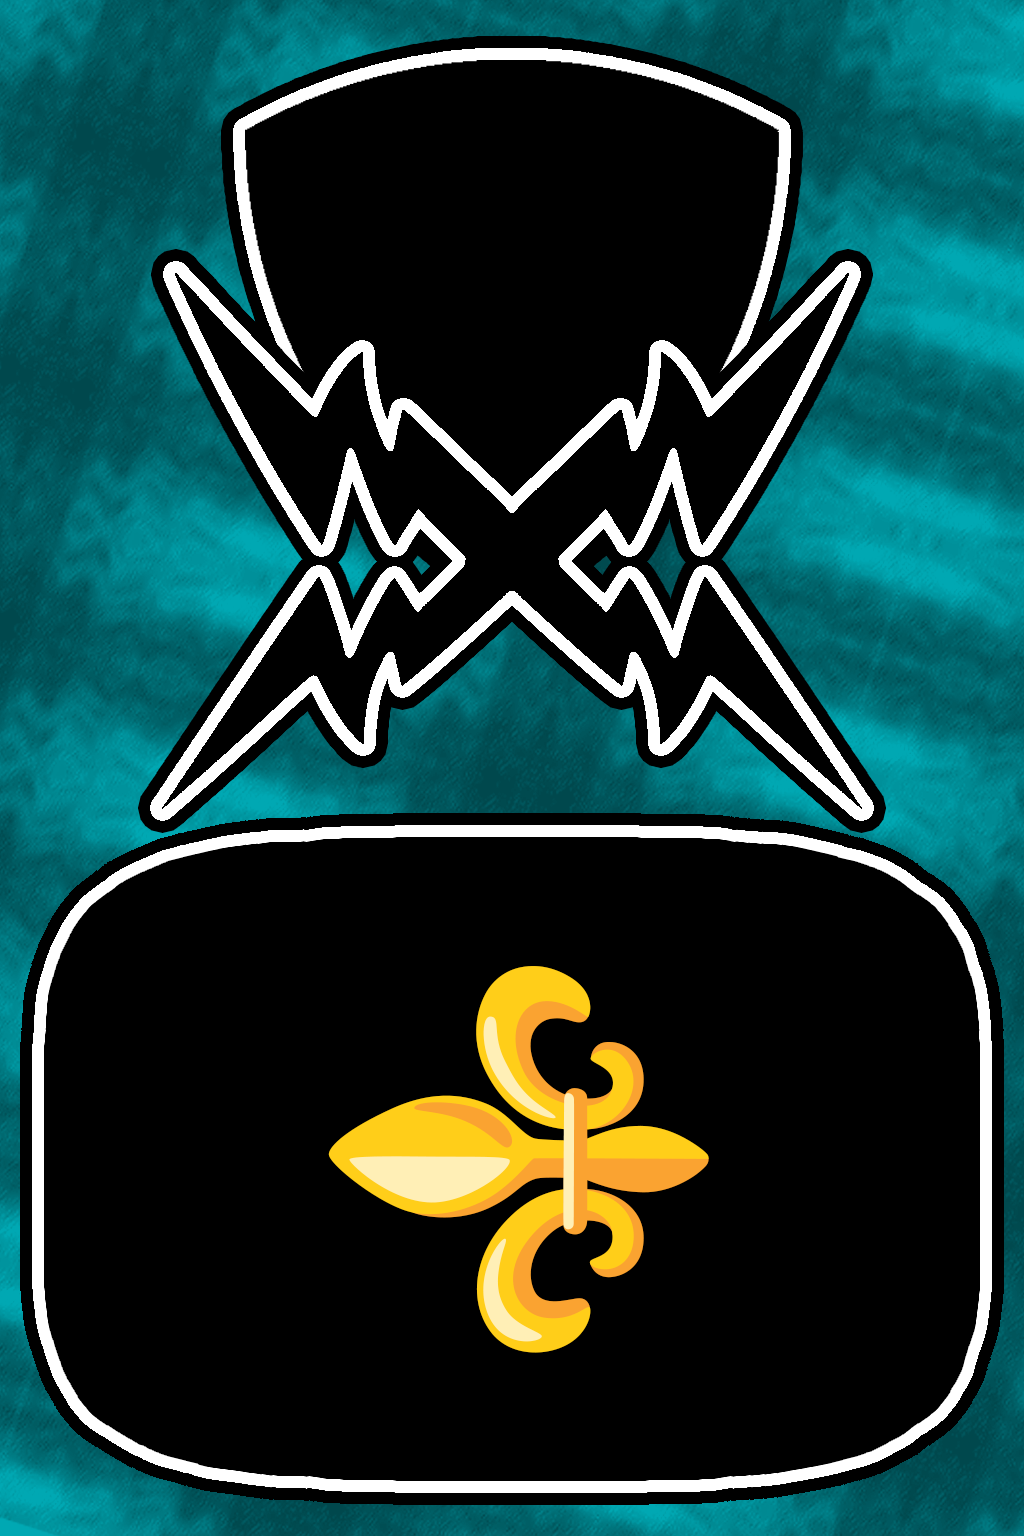
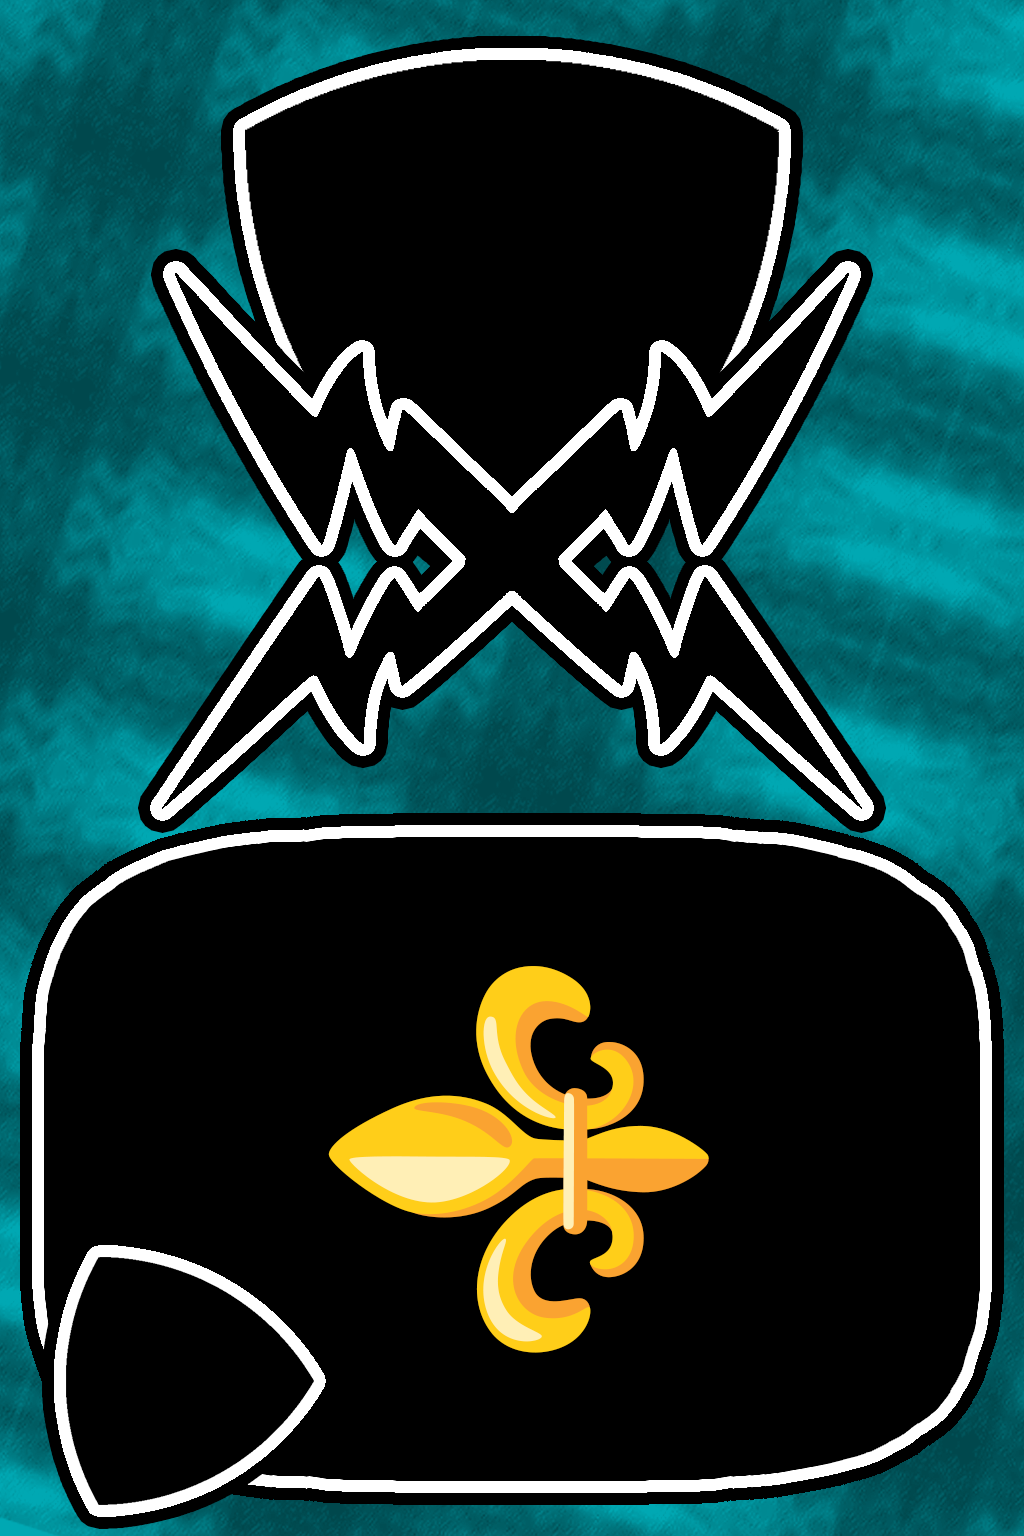
noai fix

Changed region(s): [[0.0312, 0.8125, 0.3125, 1.0]]

diff --git a/docs/noai/index.html b/docs/noai/index.html
@@ -1,4 +1,4 @@
-<!DOCTYPE html><html lang=en><script type=importmap>{"imports":{"1Dqf7":"./shield-strong.493974f6.png","1GwB3":"./guard.fe10b17f.png","2MKe8":"./fate-back.324779ef.png","3UtAa":"./weapon-weak-template.3f5c5fab.png","3gAId":"./axe-medium.5e94a0e5.png","4BsHQ":"./luxurium-medium.28a3bc13.png","4GO7z":"./luxurium-small.28a3bc13.png","4RLGu":"./luxurium-big.28a3bc13.png","5DXUz":"./stamina-back.b204e33a.png","5mDOk":"./CanvasRenderer.12a40a97.js","5vMCO":"./browserAll.f26b8cb1.js","8F9Mt":"./luxurium-fate-big.9a2c6997.png","8T80n":"./health-medium.917a32ed.png","8YUpZ":"./game-end-exhausted.6392b450.png","8x6Ie":"./game-start.845adf16.png","9BLnu":"./health-small.917a32ed.png","9M7lP":"./helmet-strong.59308ea5.png","9SEgg":"./axe-weak.f26dc427.png","ZvCge":"./health-large.917a32ed.png","a3y9C":"./armor-weak.49aec1cb.png","a7UDg":"./browserAll.88d1ea04.js","aQvHz":"./game-end-beaten.6392b450.png","aeOlk":"./armor-medium.be8fba20.png","aity8":"./helmet-medium.6a95a4a1.png","aj7V4":"./sword-weak.64aadae1.png","b3hyg":"./food-medium.238356a4.png","bChX4":"./luxurium-sprites.75fe7f35.png","bOmgm":"./webworkerAll.b95b2115.js","bSuye":"./threeoclubs.bd837704.png","bbWHc":"./shield-weak.6b82f62f.png","blCwu":"./weapon-best-template.29cf1ef9.png","c8Qjd":"./weapon-normal-template.ed63ba35.png","cVXN6":"./WebGPURenderer.a4f7b119.js","cy8Ol":"./axe-strong.cef6cf83.png","d3ggT":"./WebGPURenderer.c1f26a20.js","dOSdX":"./WebGLRenderer.92bddf66.js","dPkqD":"./food-small.238356a4.png","dzCMk":"./WebGPURenderer.59952874.js","eJX9h":"./food-large.238356a4.png","eU2k7":"./armor-strong.282b4fd9.png","eiGFT":"./peasant.ed520c3e.png","fBfDf":"./royal-guard.3fb70f7a.png","fnlYX":"./sword-strong.85f87006.png","gMM0e":"./helmet-weak.a4567aa2.png","gdiN9":"./food-extralarge.238356a4.png","h4Qr6":"./luxurium-fate-small.9a2c6997.png","hBJ6I":"./BitmapFont.c002444e.js","hG9k0":"./game-end-victory.9590ba0f.png","hXSAI":"./luxurium.2195b1f3.png","hokm0":"./health-extralarge.917a32ed.png","ibr9c":"./shield-medium.8fb0c58c.png","ivzrP":"./cards.64aadae1.png","kbR46":"./luxurium-fate-medium.9a2c6997.png","lXoAL":"./princess.8204fd95.png","lsxRA":"./sword-medium.9c6e5306.png"}}</script><meta charset=UTF-8><title>Marauders</title><link rel=stylesheet href=public.47009752.css><body>
+<!DOCTYPE html><html lang=en><script type=importmap>{"imports":{"1Dqf7":"./shield-strong.493974f6.png","1GwB3":"./guard.fe10b17f.png","2MKe8":"./fate-back.324779ef.png","3UtAa":"./weapon-weak-template.3f5c5fab.png","3gAId":"./axe-medium.5e94a0e5.png","4BsHQ":"./luxurium-medium.28a3bc13.png","4GO7z":"./luxurium-small.28a3bc13.png","4RLGu":"./luxurium-big.28a3bc13.png","5DXUz":"./stamina-back.b204e33a.png","5mDOk":"./CanvasRenderer.12a40a97.js","5vMCO":"./browserAll.f26b8cb1.js","8F9Mt":"./luxurium-fate-big.9a2c6997.png","8T80n":"./health-medium.917a32ed.png","8YUpZ":"./game-end-exhausted.6392b450.png","8x6Ie":"./game-start.845adf16.png","9BLnu":"./health-small.917a32ed.png","9M7lP":"./helmet-strong.59308ea5.png","9SEgg":"./axe-weak.f26dc427.png","ZvCge":"./health-large.917a32ed.png","a3y9C":"./armor-weak.d90f8cba.png","a7UDg":"./browserAll.88d1ea04.js","aQvHz":"./game-end-beaten.6392b450.png","aeOlk":"./armor-medium.633490c3.png","aity8":"./helmet-medium.6a95a4a1.png","aj7V4":"./sword-weak.64aadae1.png","b3hyg":"./food-medium.238356a4.png","bChX4":"./luxurium-sprites.75fe7f35.png","bOmgm":"./webworkerAll.b95b2115.js","bSuye":"./threeoclubs.bd837704.png","bbWHc":"./shield-weak.6b82f62f.png","blCwu":"./weapon-best-template.29cf1ef9.png","c8Qjd":"./weapon-normal-template.ed63ba35.png","cVXN6":"./WebGPURenderer.a4f7b119.js","cy8Ol":"./axe-strong.cef6cf83.png","d3ggT":"./WebGPURenderer.c1f26a20.js","dOSdX":"./WebGLRenderer.92bddf66.js","dPkqD":"./food-small.238356a4.png","dzCMk":"./WebGPURenderer.59952874.js","eJX9h":"./food-large.238356a4.png","eU2k7":"./armor-strong.1ed616d8.png","eiGFT":"./peasant.ed520c3e.png","fBfDf":"./royal-guard.3fb70f7a.png","fnlYX":"./sword-strong.85f87006.png","gMM0e":"./helmet-weak.a4567aa2.png","gdiN9":"./food-extralarge.238356a4.png","h4Qr6":"./luxurium-fate-small.9a2c6997.png","hBJ6I":"./BitmapFont.c002444e.js","hG9k0":"./game-end-victory.9590ba0f.png","hXSAI":"./luxurium.2195b1f3.png","hokm0":"./health-extralarge.917a32ed.png","ibr9c":"./shield-medium.8fb0c58c.png","ivzrP":"./cards.64aadae1.png","kbR46":"./luxurium-fate-medium.9a2c6997.png","lXoAL":"./princess.8204fd95.png","lsxRA":"./sword-medium.9c6e5306.png"}}</script><meta charset=UTF-8><title>Marauders</title><link rel=stylesheet href=public.47009752.css><body>
     <script type=module src=public.22793681.js></script>
   
 
